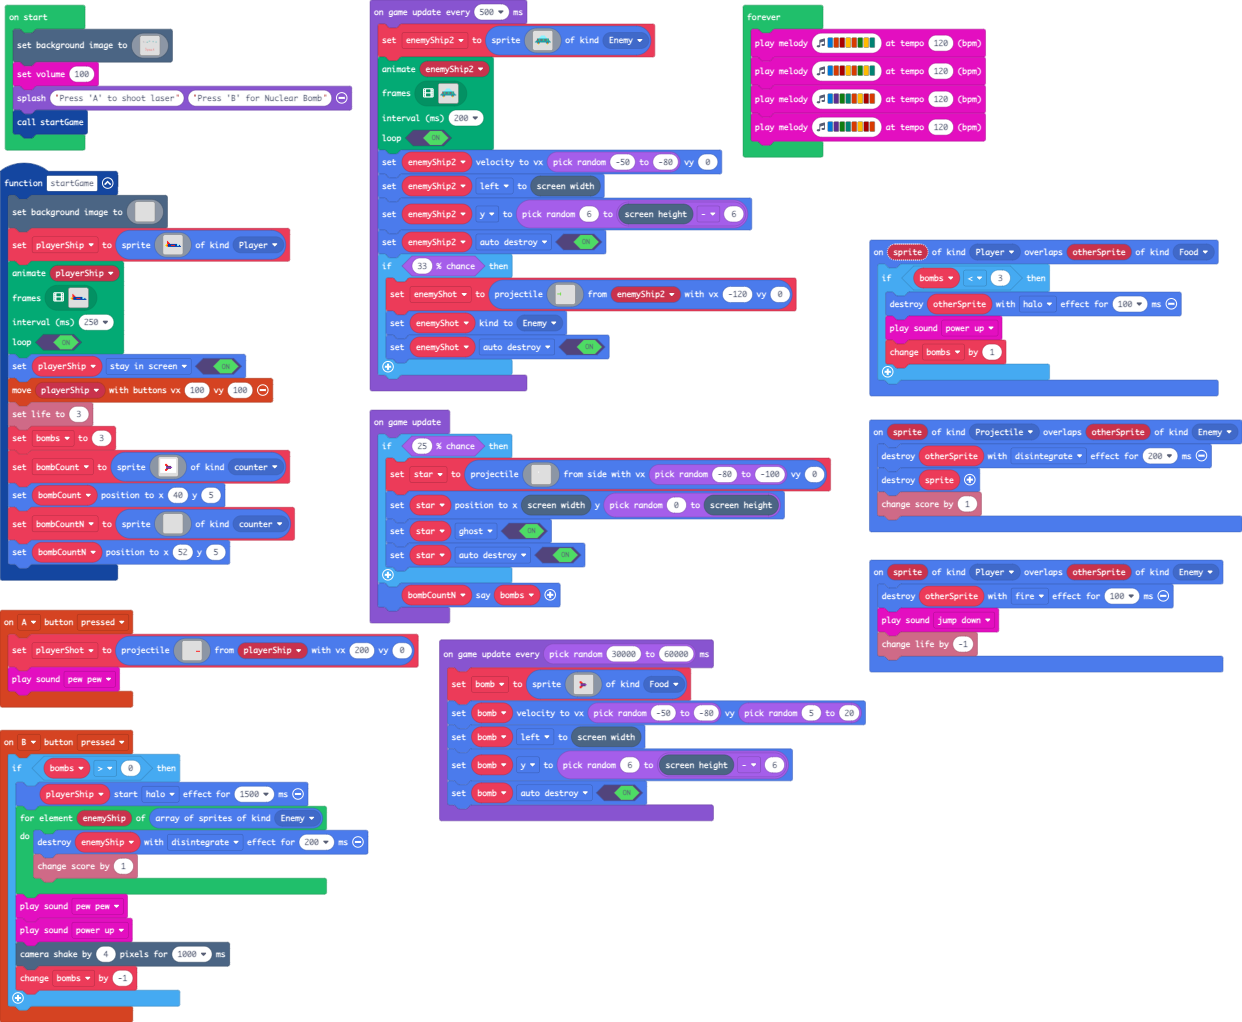
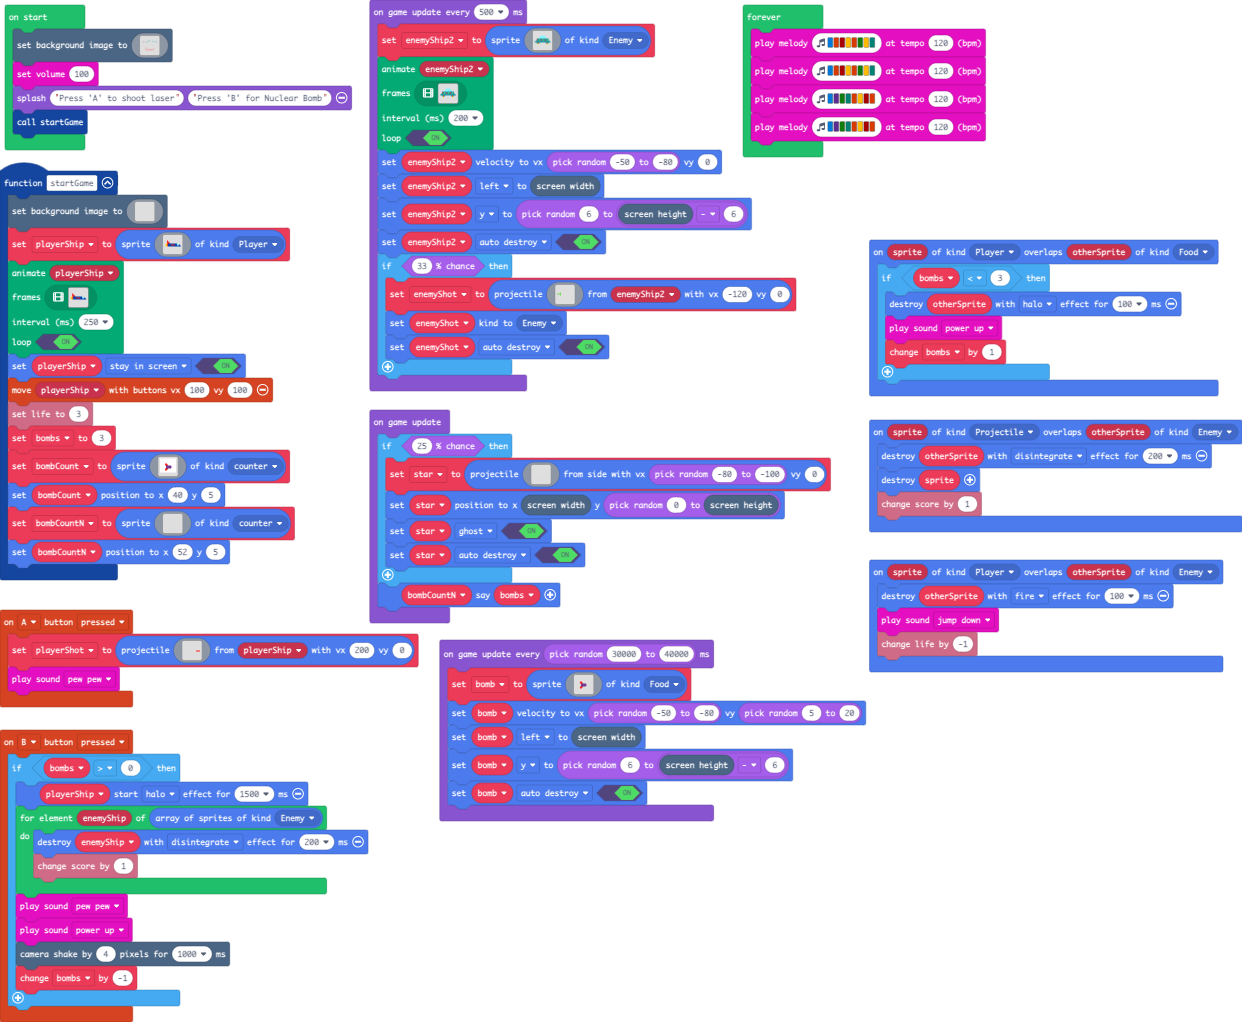
Changed bombs spanning time

diff --git a/main.ts b/main.ts
@@ -197,18 +197,18 @@ game.onUpdate(function () {
     }
     bombCountN.say(bombs)
 })
-game.onUpdateInterval(randint(30000, 60000), function () {
-    bomb = sprites.create(assets.image`bomb`, SpriteKind.Food)
-    bomb.setVelocity(randint(-50, -80), randint(5, 20))
-    bomb.left = scene.screenWidth()
-    bomb.y = randint(6, scene.screenHeight() - 6)
-    bomb.setFlag(SpriteFlag.AutoDestroy, true)
-})
 forever(function () {
     music.playMelody("E B C5 A B G A F ", 120)
     music.playMelody("E B C5 A B G A F ", 120)
     music.playMelody("E D G F B A C5 B ", 120)
     music.playMelody("E D G F B A C5 B ", 120)
+})
+game.onUpdateInterval(randint(30000, 40000), function () {
+    bomb = sprites.create(assets.image`bomb`, SpriteKind.Food)
+    bomb.setVelocity(randint(-50, -80), randint(5, 20))
+    bomb.left = scene.screenWidth()
+    bomb.y = randint(6, scene.screenHeight() - 6)
+    bomb.setFlag(SpriteFlag.AutoDestroy, true)
 })
 game.onUpdateInterval(500, function () {
     enemyShip2 = sprites.create(assets.image`enemy`, SpriteKind.Enemy)
